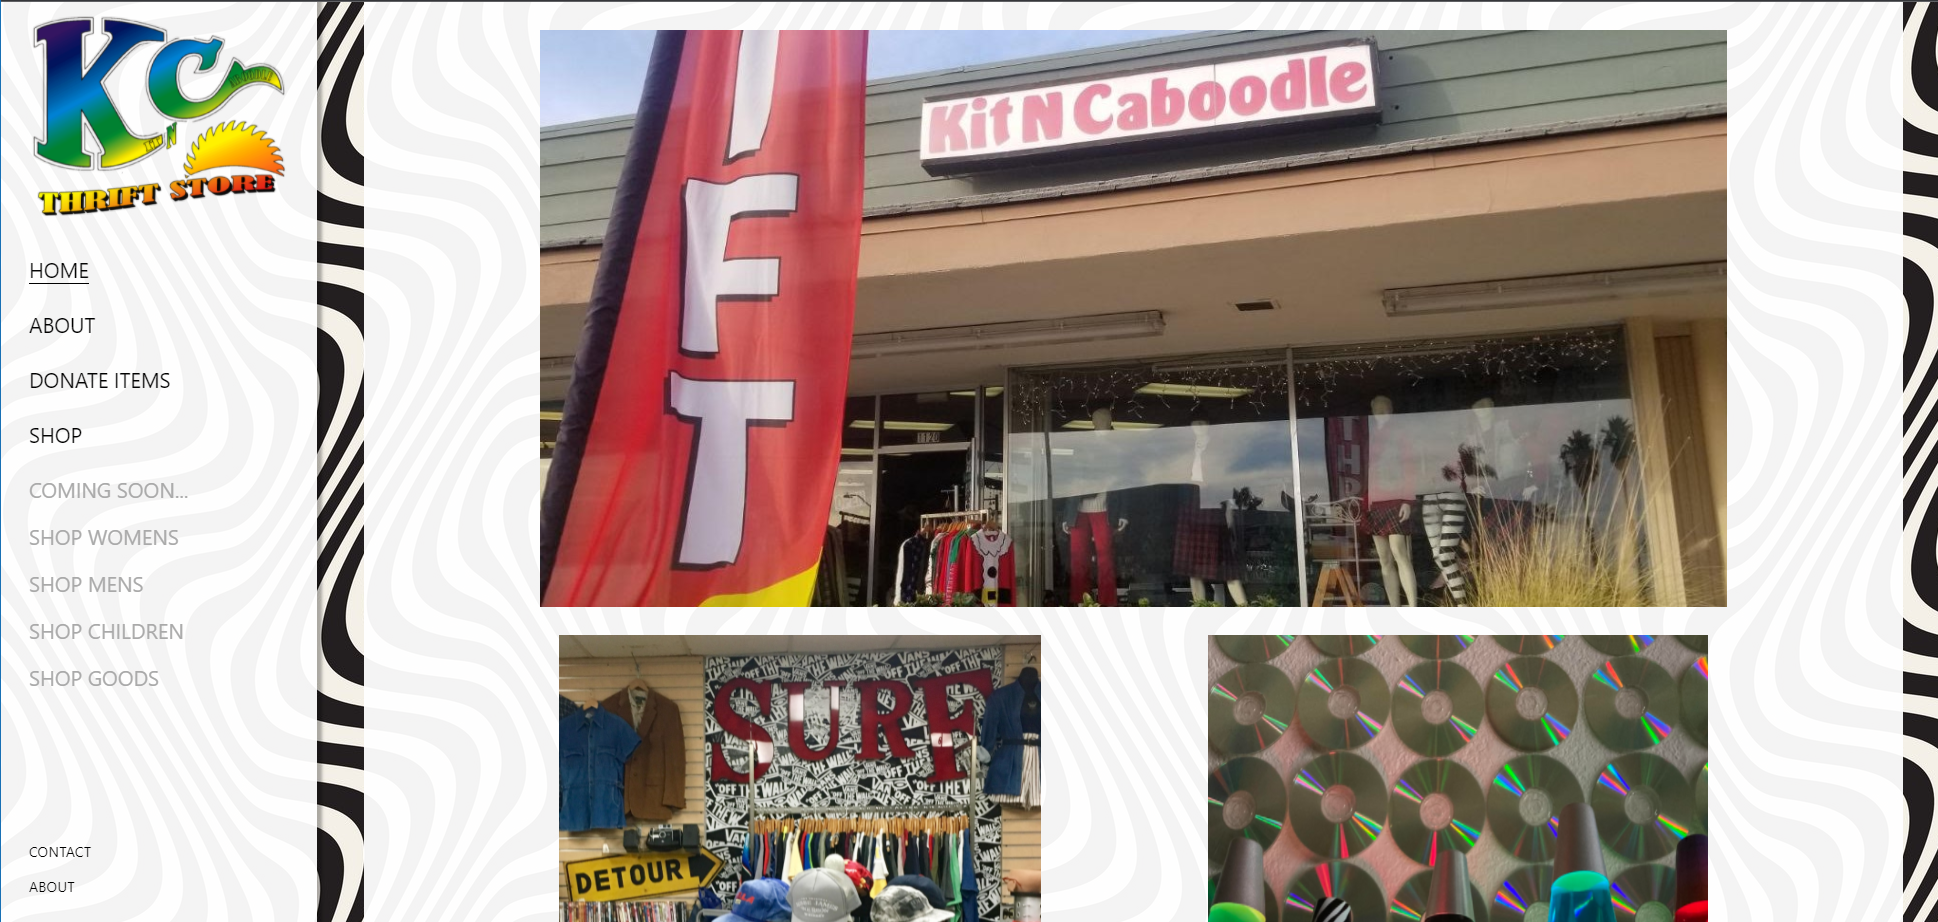
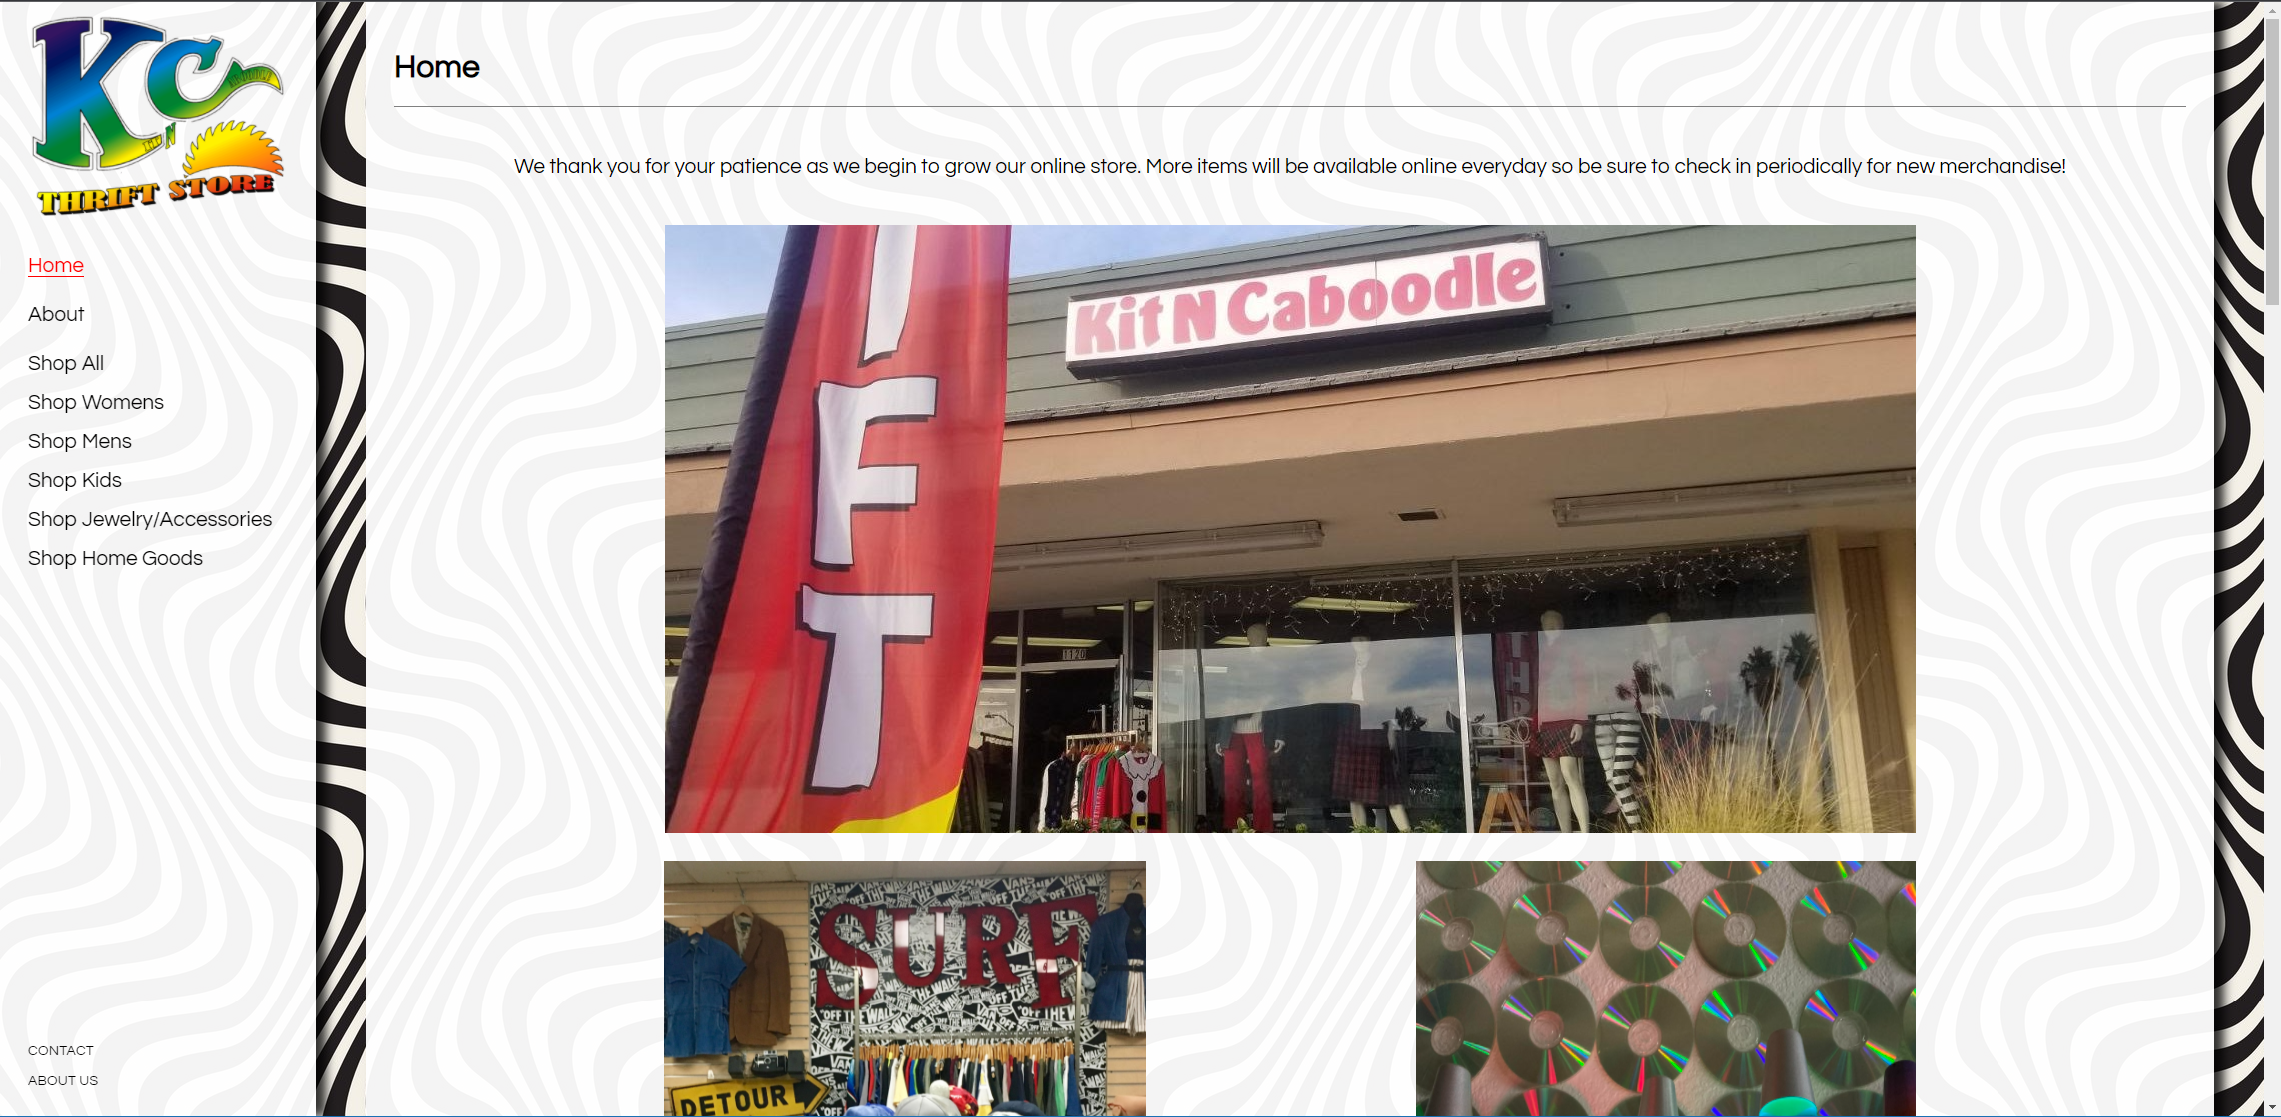
updated screenshot

diff --git a/KitNCaboodleSite/wwwroot/aboutus.html b/KitNCaboodleSite/wwwroot/aboutus.html
@@ -1,0 +1,89 @@
+<!DOCTYPE html>
+<html>
+<head>
+    <meta charset="utf-8" />
+    <meta name="viewport" content="width=device-width, initial-scale=1">
+    <title>About - Kit N Caboodle</title>
+    <link rel="stylesheet" href="styles/styles1.css" />
+    <link rel="preconnect" href="https://fonts.googleapis.com">
+    <link rel="preconnect" href="https://fonts.gstatic.com" crossorigin>
+    <link href="https://fonts.googleapis.com/css2?family=Questrial&display=swap" rel="stylesheet">
+</head>
+<body>
+    <div class="container">
+        <div class="nav-open-wrapper">
+            <button class="nav-open-button" onclick="openNav()">&#9776;</button>
+            <h1>Kit N Caboodle</h1>
+        </div>
+        <!-- Navigation Side Bar -->
+        <div id="navBar" class="nav-wrapper">
+            <a href="javascript:void(0)" class="close-button" onclick="closeNav()">×</a>
+            <div class="nav-top">
+                <div class="logo-img">
+                    <img src="images/logo1.png" />
+                </div>
+                <div class="nav-link-wrapper">
+                    <a href="index.html">Home</a>
+                </div>
+                <div class="nav-link-wrapper-active">
+                    <a href="about.html">About</a>
+                </div>
+                <div class="nav-shop-wrapper">
+                    <div class="nav-link-wrapper">
+                        <a href="shop.html">Shop All</a>
+                    </div>
+                    <div class="shop-link-wrapper">
+                        <a href="shop/womens.html">Shop Womens</a>
+                    </div>
+                    <div class="shop-link-wrapper">
+                        <a href="shop/mens.html">Shop Mens</a>
+                    </div>
+                    <div class="shop-link-wrapper">
+                        <a href="shop/kids.html">Shop Kids</a>
+                    </div>
+                    <div class="shop-link-wrapper">
+                        <a href="shop/jewelry.html">Shop Jewelry/Accessories</a>
+                    </div>
+                    <div class="shop-link-wrapper">
+                        <a href="shop/items.html">Shop Home Goods</a>
+                    </div>
+                </div>
+            </div>
+            <div class="nav-bottom">
+
+                <div class="nav-link-wrapper">
+                    <a href="about.html">Contact</a>
+                </div>
+                <div class="nav-link-wrapper">
+                    <a href="about.html">About</a>
+                </div>
+            </div>
+        </div>
+        <div></div>
+        <!-- Main View -->
+        <div class="main-container">
+            <div class="main">
+                <div class="shop-header-wrapper"><h1>About</h1></div>
+                <div class="text-wrapper">
+                    <div>
+                        <h2>HOURS</h2>
+                        We are open everyday from 10am - 7pm<br />
+                        <h2>LOCATION</h2>
+                        1120 S Coast Hwy, Oceanside, CA 92054
+                    </div>
+                </div>
+                <!--Google Maps Window-->
+                <div class="map">
+                    <iframe width="800" height="600" style="border:0" loading="lazy" allowfullscreen src="https://www.google.com/maps/embed/v1/place?q=place_id:ChIJf3uv7xhu3IARln-6mfNzSyM&key=AIzaSyAB9MBmQx_5xm_UFmNHX0uc4rqDzFwmKQs"></iframe>
+                </div>
+                <div class="text-wrapper" style="margin-top: 50px">
+                    <h2>CONTACT US</h2>
+                    (760) 967-1830
+                </div>
+            </div>
+        </div>
+    </div>
+    <script src="http://ajax.googleapis.com/ajax/libs/jquery/1.7.1/jquery.min.js" type="text/javascript"></script>
+    <script src="scripts/js/script.js"></script>
+</body>
+</html>

diff --git a/KitNCaboodleSite/wwwroot/contact.html b/KitNCaboodleSite/wwwroot/contact.html
@@ -1,0 +1,89 @@
+<!DOCTYPE html>
+<html>
+<head>
+    <meta charset="utf-8" />
+    <meta name="viewport" content="width=device-width, initial-scale=1">
+    <title>About - Kit N Caboodle</title>
+    <link rel="stylesheet" href="styles/styles1.css" />
+    <link rel="preconnect" href="https://fonts.googleapis.com">
+    <link rel="preconnect" href="https://fonts.gstatic.com" crossorigin>
+    <link href="https://fonts.googleapis.com/css2?family=Questrial&display=swap" rel="stylesheet">
+</head>
+<body>
+    <div class="container">
+        <div class="nav-open-wrapper">
+            <button class="nav-open-button" onclick="openNav()">&#9776;</button>
+            <h1>Kit N Caboodle</h1>
+        </div>
+        <!-- Navigation Side Bar -->
+        <div id="navBar" class="nav-wrapper">
+            <a href="javascript:void(0)" class="close-button" onclick="closeNav()">×</a>
+            <div class="nav-top">
+                <div class="logo-img">
+                    <img src="images/logo1.png" />
+                </div>
+                <div class="nav-link-wrapper">
+                    <a href="index.html">Home</a>
+                </div>
+                <div class="nav-link-wrapper-active">
+                    <a href="about.html">About</a>
+                </div>
+                <div class="nav-shop-wrapper">
+                    <div class="nav-link-wrapper">
+                        <a href="shop.html">Shop All</a>
+                    </div>
+                    <div class="shop-link-wrapper">
+                        <a href="shop/womens.html">Shop Womens</a>
+                    </div>
+                    <div class="shop-link-wrapper">
+                        <a href="shop/mens.html">Shop Mens</a>
+                    </div>
+                    <div class="shop-link-wrapper">
+                        <a href="shop/kids.html">Shop Kids</a>
+                    </div>
+                    <div class="shop-link-wrapper">
+                        <a href="shop/jewelry.html">Shop Jewelry/Accessories</a>
+                    </div>
+                    <div class="shop-link-wrapper">
+                        <a href="shop/items.html">Shop Home Goods</a>
+                    </div>
+                </div>
+            </div>
+            <div class="nav-bottom">
+
+                <div class="nav-link-wrapper">
+                    <a href="about.html">Contact</a>
+                </div>
+                <div class="nav-link-wrapper">
+                    <a href="about.html">About</a>
+                </div>
+            </div>
+        </div>
+        <div></div>
+        <!-- Main View -->
+        <div class="main-container">
+            <div class="main">
+                <div class="shop-header-wrapper"><h1>About</h1></div>
+                <div class="text-wrapper">
+                    <div>
+                        <h2>HOURS</h2>
+                        We are open everyday from 10am - 7pm<br />
+                        <h2>LOCATION</h2>
+                        1120 S Coast Hwy, Oceanside, CA 92054
+                    </div>
+                </div>
+                <!--Google Maps Window-->
+                <div class="map">
+                    <iframe width="800" height="600" style="border:0" loading="lazy" allowfullscreen src="https://www.google.com/maps/embed/v1/place?q=place_id:ChIJf3uv7xhu3IARln-6mfNzSyM&key=AIzaSyAB9MBmQx_5xm_UFmNHX0uc4rqDzFwmKQs"></iframe>
+                </div>
+                <div class="text-wrapper" style="margin-top: 50px">
+                    <h2>CONTACT US</h2>
+                    (760) 967-1830
+                </div>
+            </div>
+        </div>
+    </div>
+    <script src="http://ajax.googleapis.com/ajax/libs/jquery/1.7.1/jquery.min.js" type="text/javascript"></script>
+    <script src="scripts/js/script.js"></script>
+</body>
+</html>

diff --git a/KitNCaboodleSite/wwwroot/styles/styles1.css b/KitNCaboodleSite/wwwroot/styles/styles1.css
@@ -233,7 +233,7 @@ body {
 .main {
     min-height: 100vh;
     justify-items: center;
-    width: 95%;
+    width: 92%;
     padding: 28px;
     background-color: rgba(255, 255, 255, 0.95);
     display: flex;
